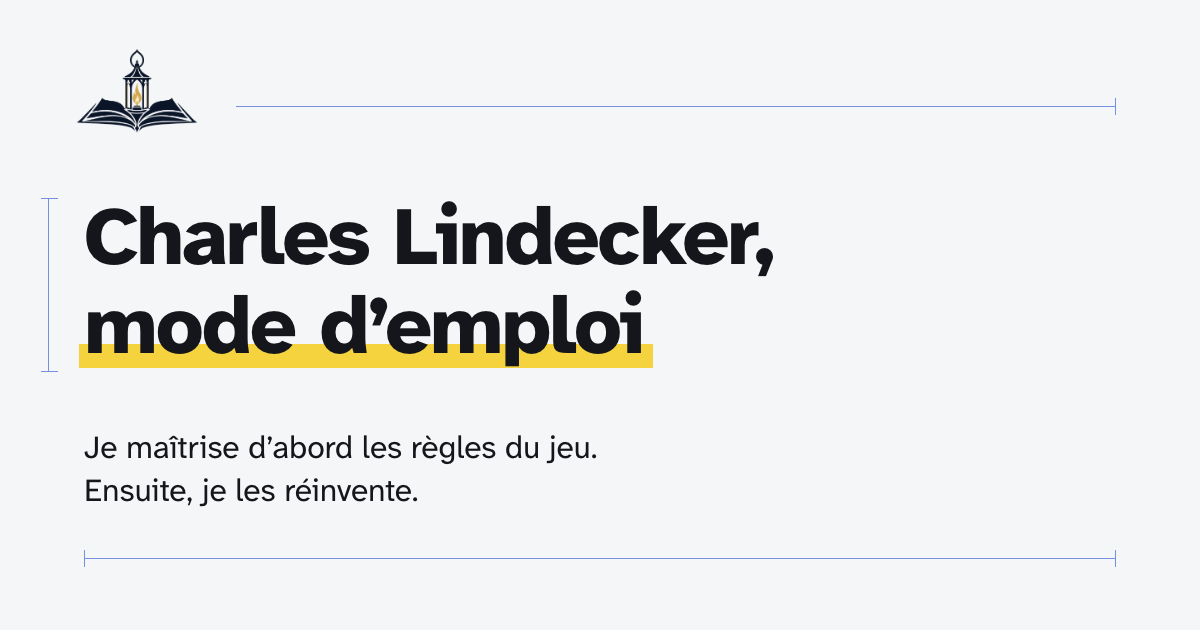
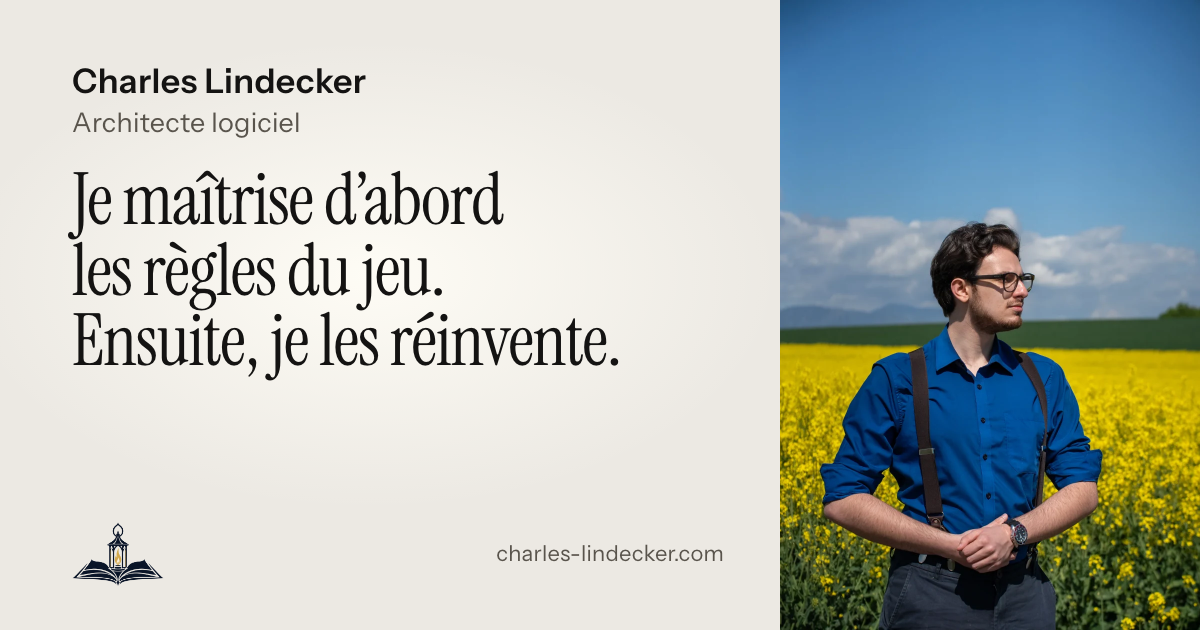
feat(site): composer une image de partage Lanterne par page
Les quinze pages partageaient l’image de l’ancienne direction, titrée « mode d’emploi ». tools/generer-partage.mjs compose en local, avec Instrument Serif et Instrument Sans, l’image par défaut (GLO-07 : nom, métier, accroche, photo du colza) et une déclinaison par page (GLO-08 : titre, étiquette de preuve des projets, photo de séance ou lanterne allumée). La coque annonce celle de la page, avec son alt ; une page peut passer ogImage et ogImageAlt. accueil.png, repli des articles du blog, reprend l’image par défaut.

diff --git a/site/src/lib/partage.ts b/site/src/lib/partage.ts
@@ -1,0 +1,78 @@
+/**
+ * Les images de partage (Open Graph) de la direction « Lanterne » : une par
+ * page publique, 1 200 × 630, composées en HTML avec la vraie typographie
+ * puis rendues en PNG par `node tools/generer-partage.mjs` (local, aucune
+ * origine tierce). Les fichiers vivent dans public/og/ et sont versionnés.
+ *
+ *   - GLO-07, l’image par défaut (l’accueil, et toute page sans image) : le
+ *     nom, le métier, l’accroche, la photo du colza en couleur, l’emblème.
+ *   - GLO-08, une déclinaison par page : le titre de la page à gauche (le nom
+ *     du projet et son étiquette de preuve sur une page de projet), à droite
+ *     une photo de séance (Contact, Parcours) ou la lanterne allumée dans un
+ *     acte de veille, l’emblème en bas.
+ *
+ * Cette liste est la seule source : le générateur la lit pour composer les
+ * images, la coque (layouts/Base.astro) pour choisir og:image et son alt.
+ * Aucun texte ne s’invente ici : titres et étiquettes viennent des pages et
+ * de la vitrine (config/projets.ts).
+ */
+import { VITRINE } from '../config/projets.ts';
+
+/** Le visuel de droite d’une image de partage. */
+export type VisuelPartage = 'accueil' | 'contact' | 'parcours' | 'lanterne';
+
+export interface ImagePartage {
+  /** Chemin de la page. */
+  chemin: string;
+  /** Fichier sous public/ (adresse publique : sans `public`). */
+  fichier: string;
+  /** Le grand titre de l’image. */
+  titre: string;
+  /** Le titre composé ligne par ligne, comme sur la page (l’accroche). */
+  lignes?: readonly string[];
+  /** Une ligne au-dessus du titre (rubrique) ou l’étiquette de preuve d’un projet. */
+  surtitre?: string;
+  /** Étiquette de preuve, encadrée comme sur la page du projet. */
+  etiquette?: string;
+  visuel: VisuelPartage;
+  alt: string;
+}
+
+export const ACCROCHE = 'Je maîtrise d’abord les règles du jeu. Ensuite, je les réinvente.';
+const NOM = 'Charles Lindecker';
+
+/** L’image par défaut (GLO-07). */
+export const PARTAGE_DEFAUT: ImagePartage = {
+  chemin: '/',
+  fichier: 'public/og/GLO-07_1200x630.png',
+  titre: ACCROCHE,
+  lignes: ['Je maîtrise d’abord', 'les règles du jeu.', 'Ensuite, je les réinvente.'],
+  surtitre: 'Architecte logiciel',
+  visuel: 'accueil',
+  alt: `${NOM}, architecte logiciel. ${ACCROCHE}`,
+};
+
+/** Une déclinaison de GLO-08 : `public/og/GLO-08-<page>_1200x630.png`. */
+function declinaison(chemin: string, titre: string, visuel: VisuelPartage, options: { surtitre?: string; etiquette?: string } = {}): ImagePartage {
+  const page = chemin.slice(1).replaceAll('/', '-');
+  const description = (options.etiquette ? `${titre}\u00a0: ${options.etiquette.toLowerCase()}` : titre).replace(/\.$/, '');
+  return { chemin, fichier: `public/og/GLO-08-${page}_1200x630.png`, titre, visuel, alt: `${NOM}, ${description}.`, ...options };
+}
+
+export const IMAGES_PARTAGE: readonly ImagePartage[] = [
+  PARTAGE_DEFAUT,
+  declinaison('/projets', 'Projets', 'lanterne', { surtitre: 'Une équipe, des systèmes en production, des outils publiés' }),
+  ...VITRINE.map((projet) => declinaison(projet.href, projet.nom, 'lanterne', { surtitre: 'Projet', etiquette: projet.preuve })),
+  declinaison('/parcours', 'Parcours', 'parcours'),
+  declinaison('/parcours/professionnel', 'Parcours professionnel', 'parcours', { surtitre: 'Parcours' }),
+  declinaison('/parcours/competences', 'Compétences', 'parcours', { surtitre: 'Parcours' }),
+  declinaison('/parcours/formation', 'Formation et certifications', 'parcours', { surtitre: 'Parcours' }),
+  declinaison('/contact', 'Discutons.', 'contact', { surtitre: 'Contact' }),
+  declinaison('/blog', 'Blog', 'lanterne'),
+  declinaison('/mentions-legales', 'Mentions légales', 'lanterne'),
+];
+
+/** L’image de partage d’une page : la sienne, sinon l’image par défaut. */
+export function imagePartageDe(chemin: string): ImagePartage {
+  return IMAGES_PARTAGE.find((image) => image.chemin === chemin) ?? PARTAGE_DEFAUT;
+}

diff --git a/site/tests/unit/partage.test.ts b/site/tests/unit/partage.test.ts
@@ -1,0 +1,55 @@
+import { existsSync, readFileSync } from 'node:fs';
+import path from 'node:path';
+import { describe, expect, it } from 'vitest';
+import { PAGES_SITEMAP } from '../../src/config/pages';
+import { IMAGES_PARTAGE, imagePartageDe, PARTAGE_DEFAUT } from '../../src/lib/partage';
+import { DELAI_BUILD, pagesConstruites } from './support/dist';
+
+/**
+ * Les images de partage (lib/partage.ts, tools/generer-partage.mjs) : une
+ * par page publique, de la direction « Lanterne », livrée en PNG de
+ * 1 200 × 630, et c’est bien elle que la page annonce en og:image, avec son
+ * alt. L’image par défaut est GLO-07 dès qu’elle existe.
+ */
+
+const SITE = path.resolve(import.meta.dirname, '../..');
+/** Largeur et hauteur d’un PNG, lues dans son en-tête IHDR. */
+const dimensions = (fichier: string) => {
+  const octets = readFileSync(path.join(SITE, fichier));
+  expect(octets.subarray(1, 4).toString('latin1'), fichier).toBe('PNG');
+  return [octets.readUInt32BE(16), octets.readUInt32BE(20)];
+};
+
+describe('images de partage', () => {
+  it('prévoit une image pour chaque page publique', () => {
+    for (const { chemin } of PAGES_SITEMAP) expect(imagePartageDe(chemin).chemin, chemin).toBe(chemin);
+  });
+
+  it('livre chaque image prévue, en PNG de 1 200 × 630, dans public/og/', () => {
+    for (const image of IMAGES_PARTAGE) {
+      expect(image.fichier).toMatch(/^public\/og\/GLO-0[78][\w-]*_1200x630\.png$/);
+      expect(existsSync(path.join(SITE, image.fichier)), image.fichier).toBe(true);
+      expect(dimensions(image.fichier), image.fichier).toEqual([1200, 630]);
+    }
+  });
+
+  it('donne à chaque image un alt qui nomme Charles et la page, sans « mode d’emploi »', () => {
+    for (const image of IMAGES_PARTAGE) {
+      expect(image.alt).toMatch(/^Charles Lindecker, /);
+      expect(image.alt).not.toMatch(/mode d’emploi/i);
+    }
+  });
+
+  it('annonce sur chaque page son image et son alt (og:image, og:image:alt)', async () => {
+    const pages = await pagesConstruites();
+    for (const { chemin } of PAGES_SITEMAP) {
+      const construite = pages.find((p) => p.url === chemin);
+      expect(construite, chemin).toBeDefined();
+      const attendue = imagePartageDe(chemin);
+      expect(construite?.html, chemin).toContain(`<meta property="og:image" content="https://charles-lindecker.com${attendue.fichier.replace(/^public/, '')}"`);
+      expect(construite?.html, chemin).toContain(`<meta property="og:image:alt" content="${attendue.alt}"`);
+    }
+    const introuvable = pages.find((p) => p.url === '/404');
+    expect(introuvable?.html).toContain(`content="https://charles-lindecker.com${PARTAGE_DEFAUT.fichier.replace(/^public/, '')}"`);
+  }, DELAI_BUILD);
+});

diff --git a/site/tests/unit/visuels.test.ts b/site/tests/unit/visuels.test.ts
@@ -166,12 +166,12 @@ describe('registre des visuels : liste des manquants', () => {
     expect(etat.manquantsSocle.map((v: { id: string }) => v.id)).toContain('GLO-02');
   });
 
-  it('sur le dépôt réel, ne signale comme présents que les photos (couverture, parcours, contact, 404), la figure du plafond, l’emblème seul, la lanterne de la bascule, les pictos des trois verbes, les cadres d’appareil, les deux dessins animés de l’accueil et les deux captures de la vitrine', () => {
+  it('sur le dépôt réel, ne signale comme présents que les photos (couverture, parcours, contact, 404), la figure du plafond, l’emblème seul, la lanterne de la bascule, les pictos des trois verbes, les cadres d’appareil, l’image de partage par défaut, les deux dessins animés de l’accueil et les deux captures de la vitrine', () => {
     const etat = etatDesVisuels(SITE);
-    expect(etat.presents).toBe(13);
-    expect(etat.manquantsSocle).toHaveLength(74);
-    for (const id of ['GLO-01', 'GLO-03', 'GLO-04', 'GLO-05', 'ACC-14', 'ACC-17', 'PRJ-04', 'PRJ-05', 'PAR-PHO', 'CON-PHO', 'ERR-PHO']) expect(etat.manquantsSocle.map((v: { id: string }) => v.id)).not.toContain(id);
-    expect(resume(etat)).toMatch(/74 visuels « socle » manquants/);
+    expect(etat.presents).toBe(14);
+    expect(etat.manquantsSocle).toHaveLength(73);
+    for (const id of ['GLO-01', 'GLO-03', 'GLO-04', 'GLO-05', 'GLO-07', 'ACC-14', 'ACC-17', 'PRJ-04', 'PRJ-05', 'PAR-PHO', 'CON-PHO', 'ERR-PHO']) expect(etat.manquantsSocle.map((v: { id: string }) => v.id)).not.toContain(id);
+    expect(resume(etat)).toMatch(/73 visuels « socle » manquants/);
   });
 
   afterAll(() => rmSync(racine, { recursive: true, force: true }));
